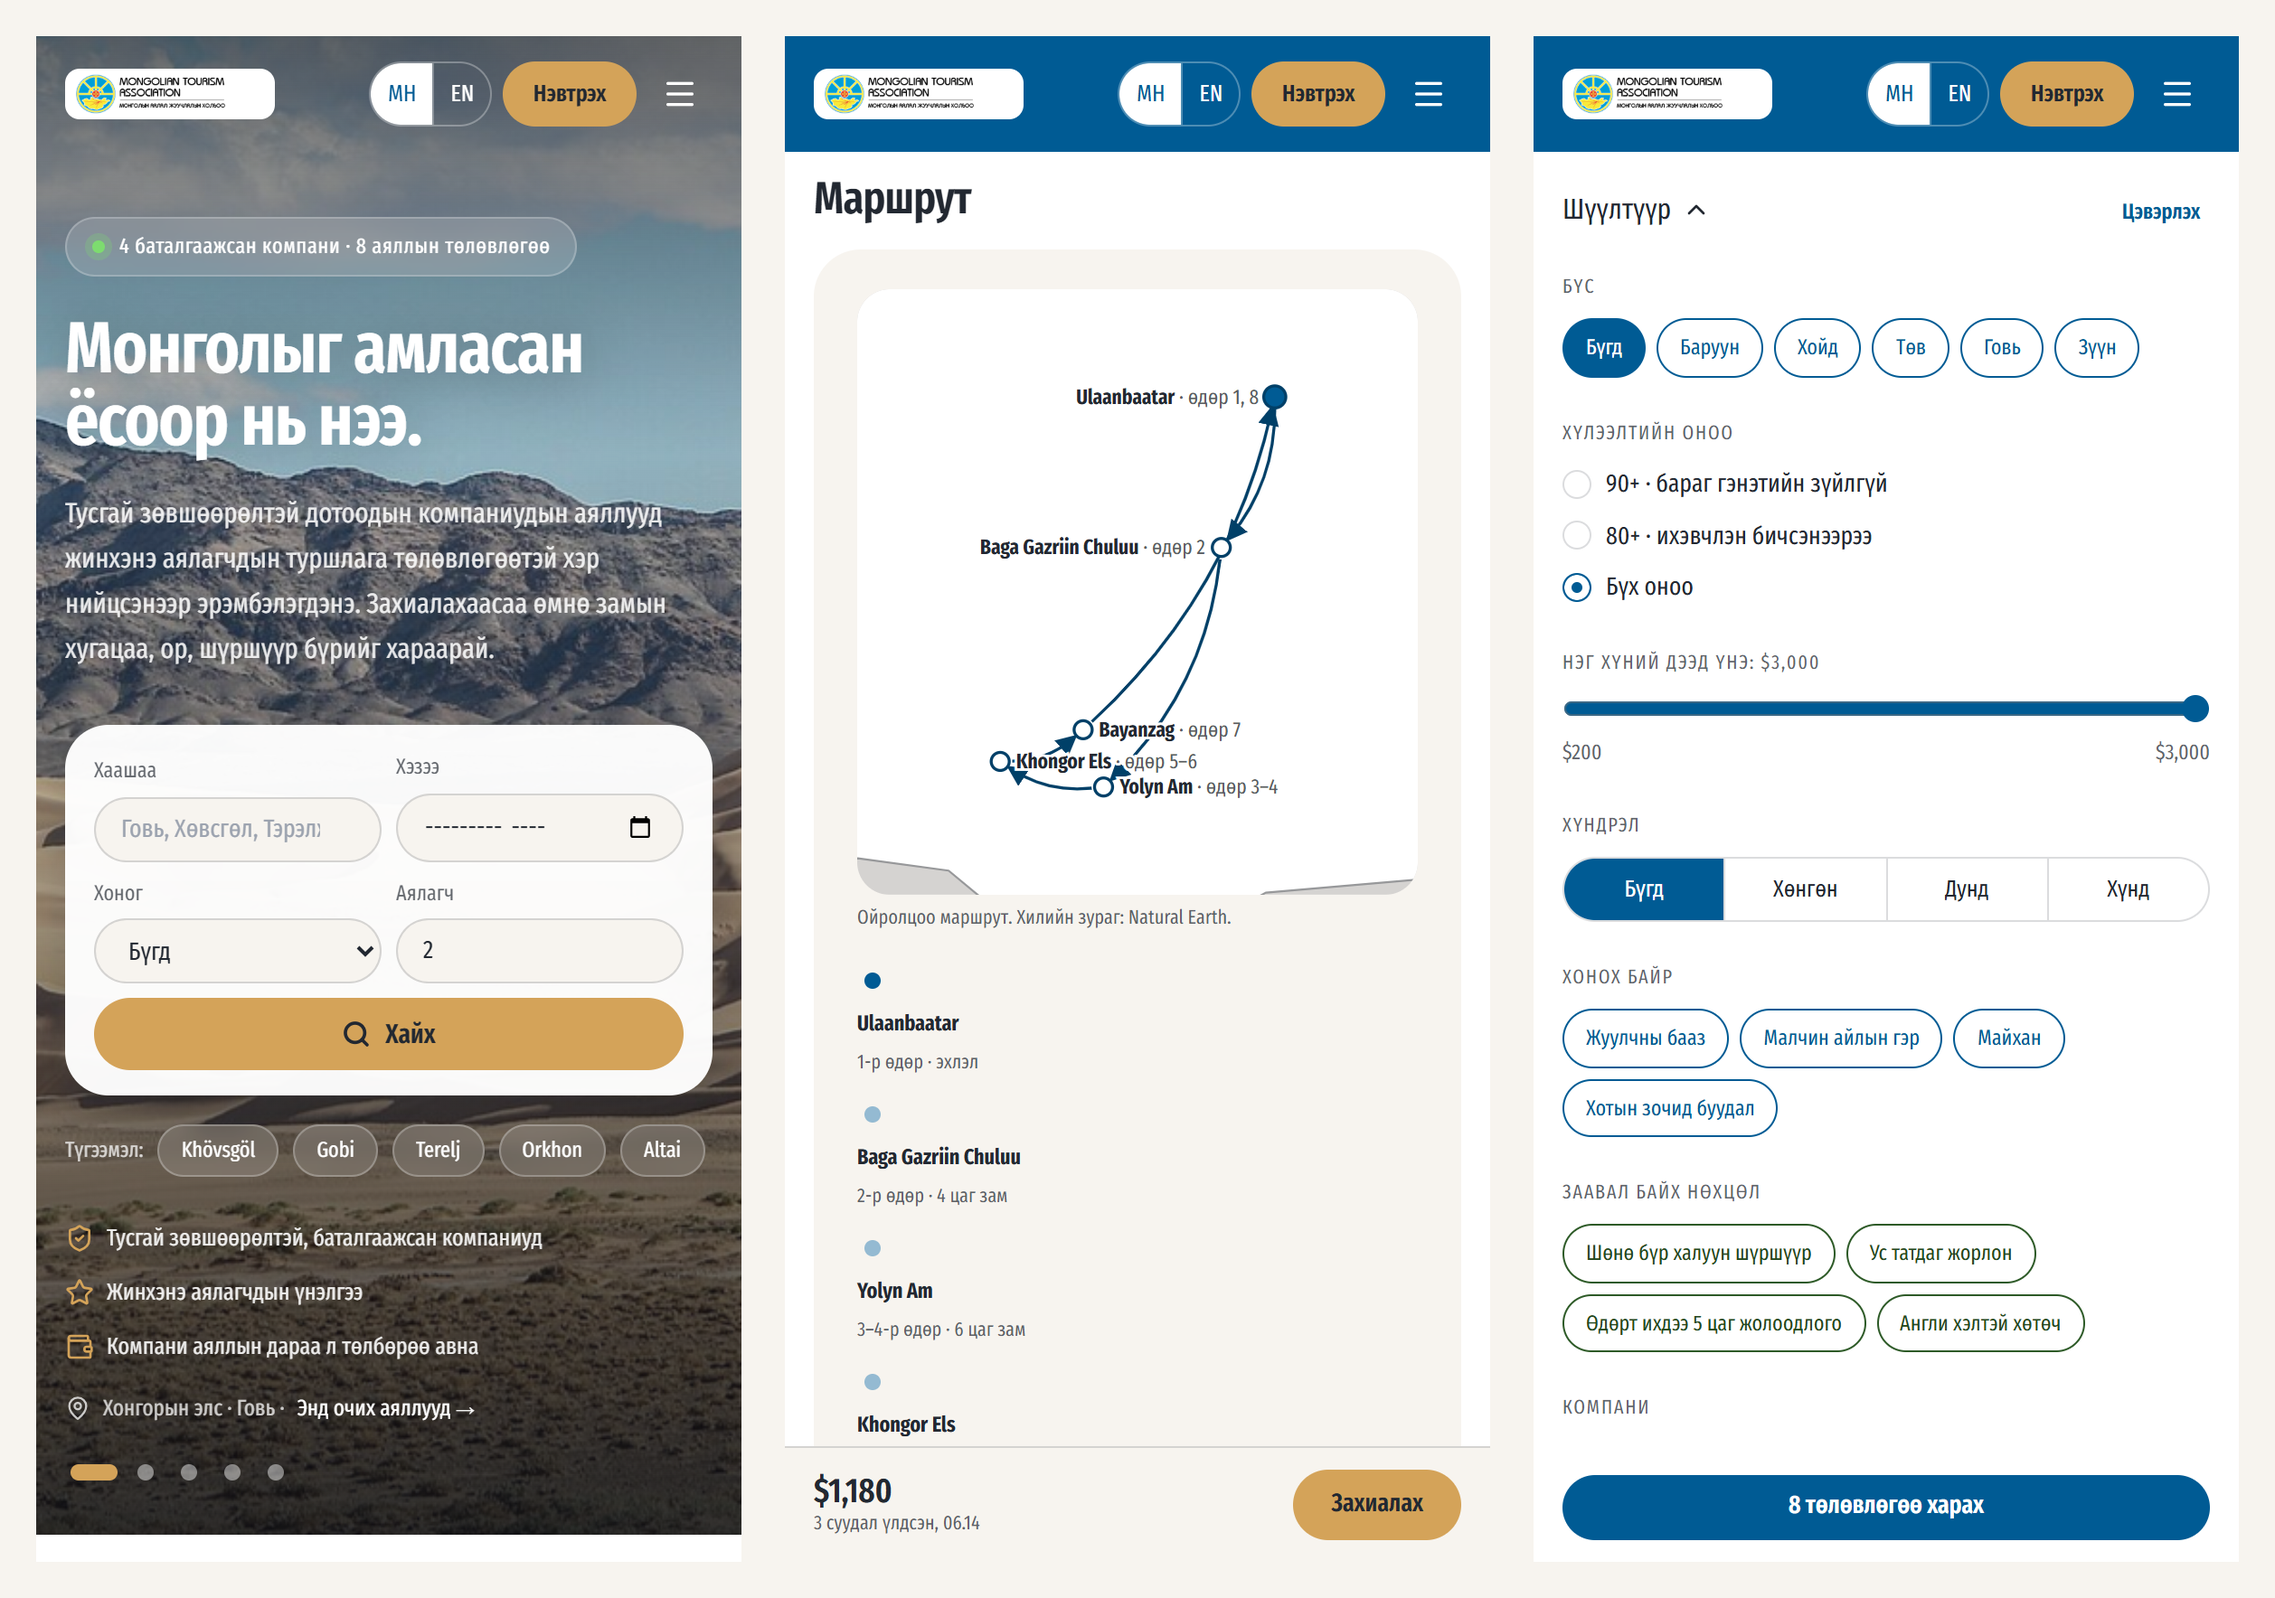
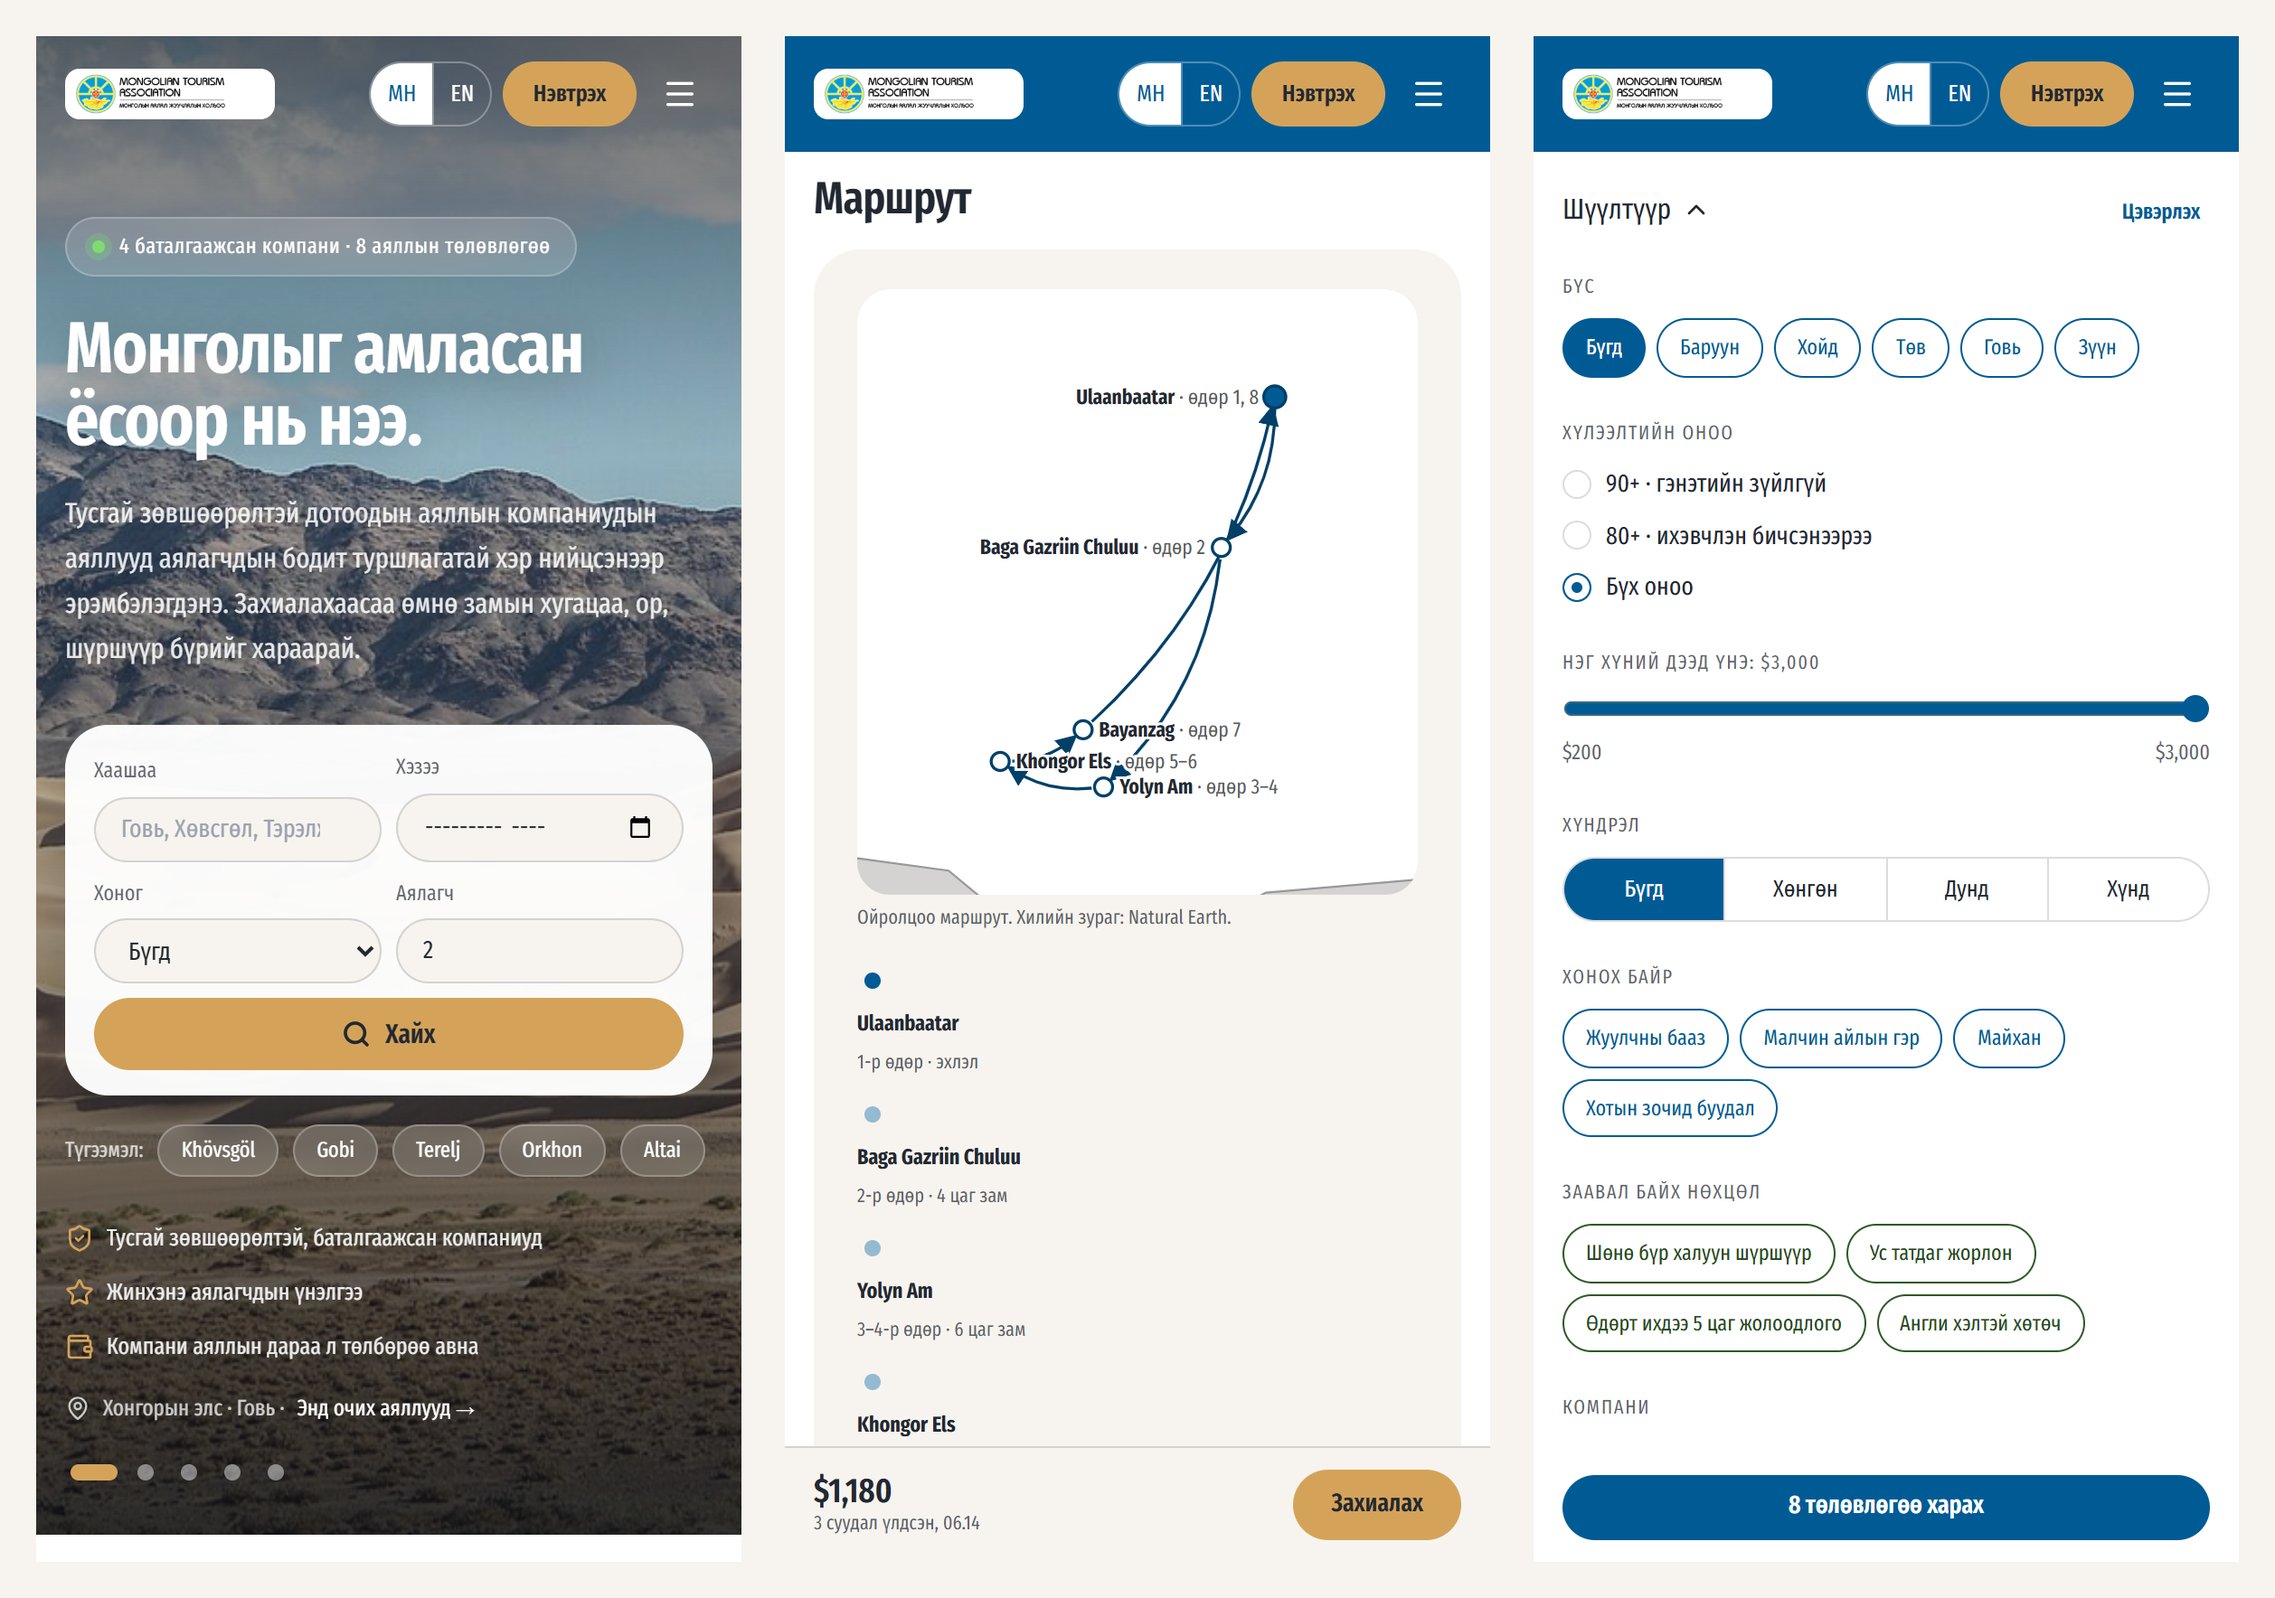
front design

diff --git a/front-end/app/globals.css b/front-end/app/globals.css
@@ -643,7 +643,8 @@
   .queue .photo { width: 84px; height: 60px; border-radius: 14px; flex: none; }
 
   /* — auth — */
-  .auth { max-width: 420px; margin: 40px auto; padding: 0 16px; }
+  /* width: body is a flex column, so without it the card shrinks to its longest line (half the screen on a phone) */
+  .auth { width: 100%; max-width: 420px; margin: 40px auto; padding: 0 16px; }
   .form { display: flex; flex-direction: column; gap: 12px; }
 
   footer.site { padding: 52px 0 28px; font-size: 13.5px; color: rgb(255 255 255 / 0.7); background: var(--color-neutral-900); --color-divider: rgb(255 255 255 / 0.25); }
@@ -658,6 +659,11 @@
     .topbar, .site-bar, .no-print, footer.site { display: none !important; }
   }
 
+  /* under 360px the full logo leaves no room for the language switch: show only its round emblem (the image's left 68×68) */
+  @media (max-width: 359px) {
+    .brand img, .brand-lg img { width: 22px; object-fit: cover; object-position: left; }
+  }
+
   /* — mobile (wireframes 1k, 1l) — */
   @media (max-width: 900px) {
     .pad, .gutter, .site-bar > .wrap { padding-inline: 16px; }
@@ -667,6 +673,10 @@
     .brand { padding: 3px 6px; }
     .brand img, .brand-lg img { height: 22px; }
     .site-actions { margin-left: 0; gap: 6px; }
+    /* iOS Safari sizes date/month inputs natively and won't shrink them, so the hero search spilled out of its card */
+    @supports (-webkit-touch-callout: none) {
+      input[type="month"].input, input[type="date"].input { -webkit-appearance: none; appearance: none; min-width: 0; width: 100%; }
+    }
     .site-bar .seg-opt { padding-inline: 9px; } /* signed out on a 320px phone, the bar's right side needs these 12px */
     .hide-m { display: none !important; } /* !important: it has to beat whatever display the element's own classes set */
     /* a segmented control with more options than a narrow phone fits wraps to a second row (18px is still a pill on one) */
